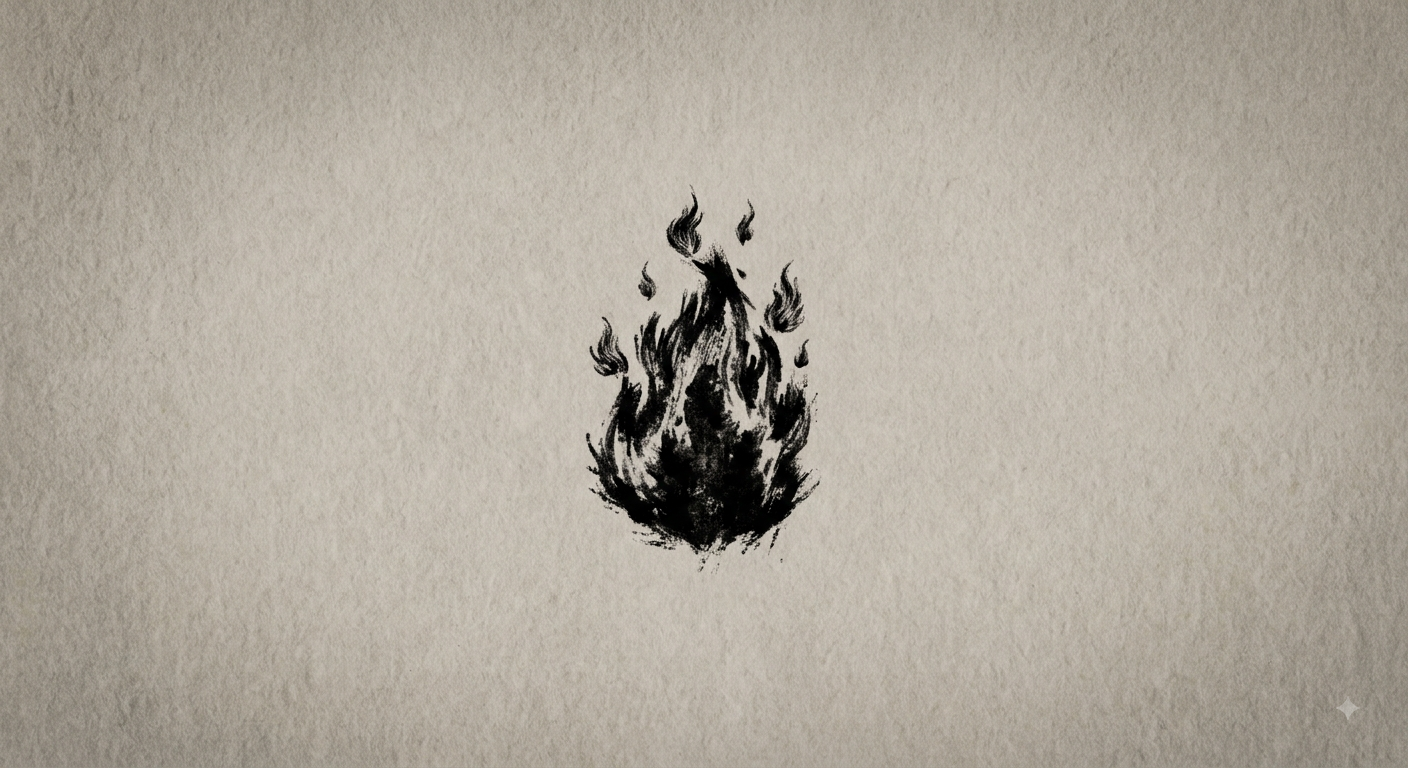
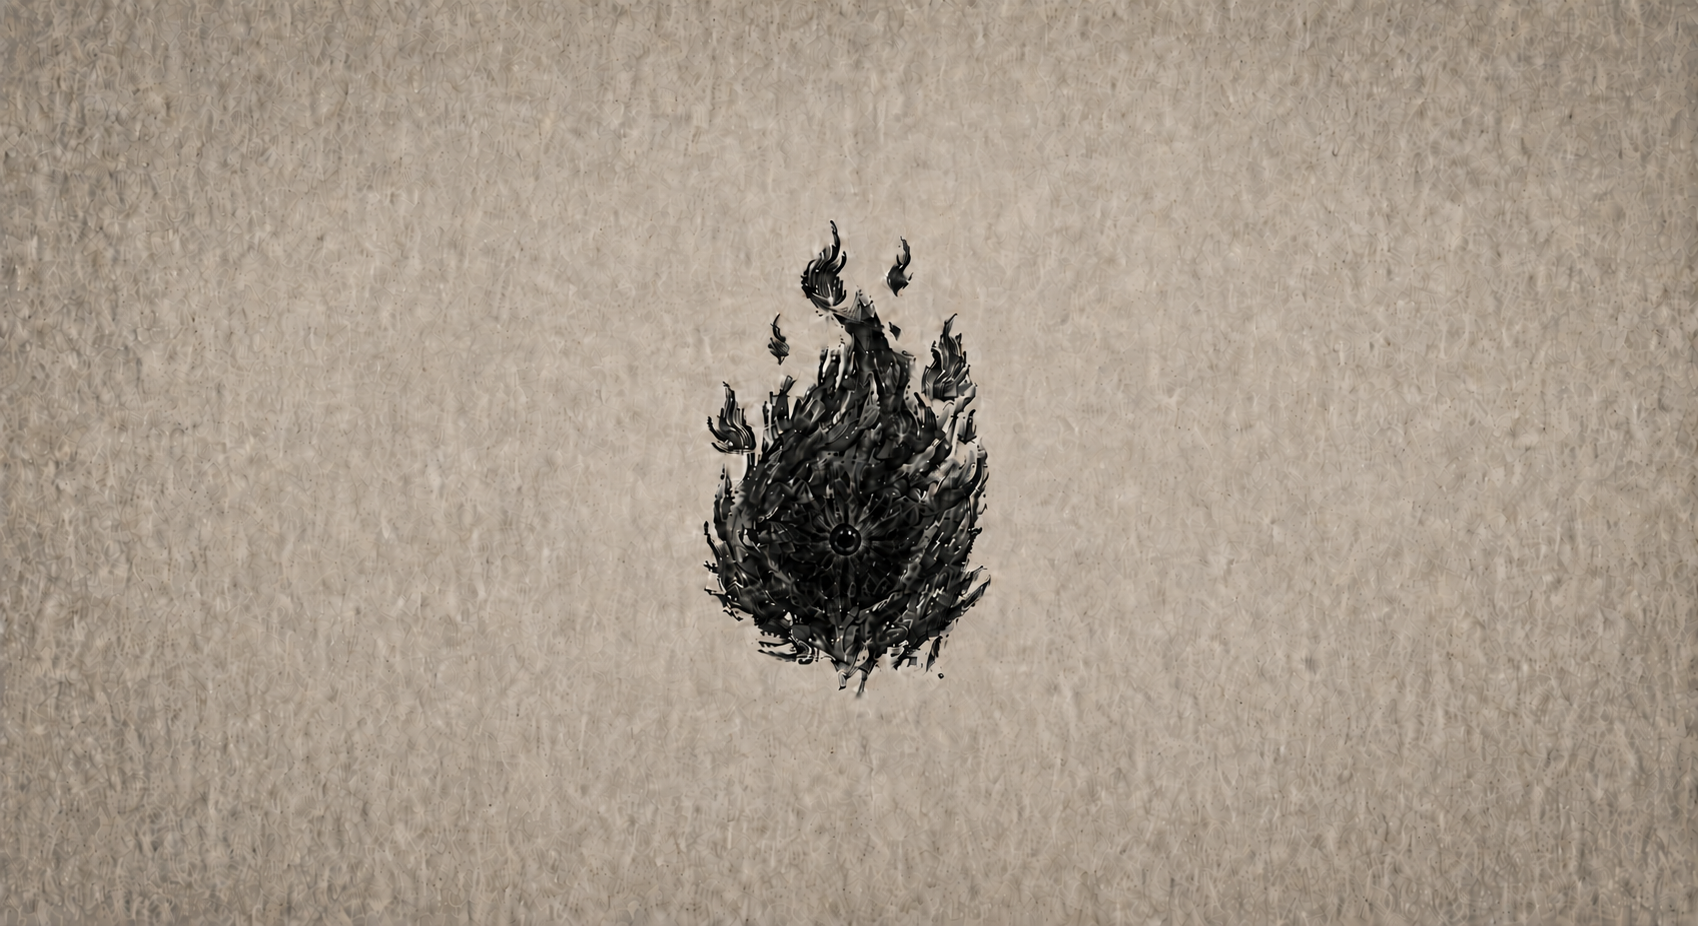
Update homepage hero image

diff --git a/frontend/src/app/page.tsx b/frontend/src/app/page.tsx
@@ -28,7 +28,7 @@ export default function HomePage() {
             </Link>
           </div>
           <div className="hero-media">
-            <img className="hero-image" src={`${basePath}/jerry.jpg`} alt="Portfolio visual" />
+            <img className="hero-image" src={`${basePath}/default-v3.png`} alt="Portfolio visual" />
             <div className="hero-caption">
               <strong>用視覺建立第一印象</strong>
               <p>
